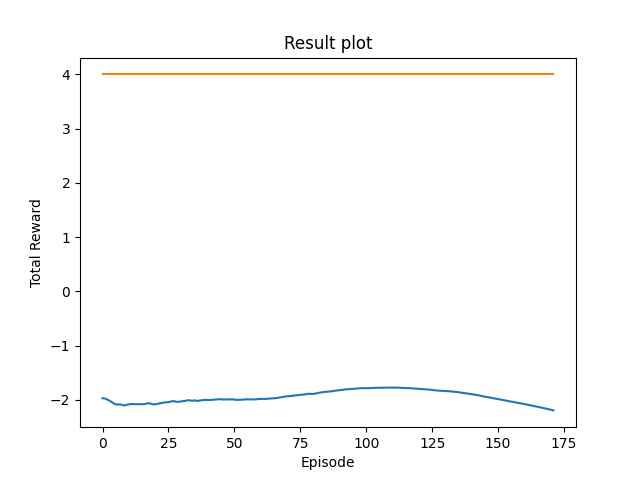
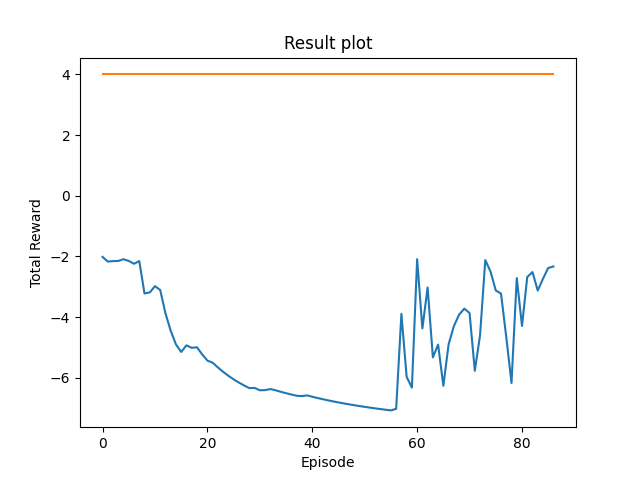
edit

diff --git a/MACC.py b/MACC.py
@@ -45,7 +45,7 @@ from rl_env.OUNoise import OUNoise
 
 # Hyperparameters
 num_episodes = 1000
-learning_rate = 0.0001
+learning_rate = 0.001 #0.0001
 gamma = 0.99
 TAU = 0.1
 batch_size = 32 #64
@@ -177,7 +177,8 @@ class Actor(nn.Module):
     def forward(self, x):
         x = F.tanh(self.fc1(x)) #relu
         x = F.tanh(self.fc2(x))
-        return F.tanh(self.fc3(x))
+        x = F.tanh(self.fc3(x))
+        return x/2
 
 
 class Critic(nn.Module):
@@ -277,20 +278,20 @@ class MACCagent:
         #buffer
         self.Qbuffer = ReplayBuffer(buffer_size)
 
+        self.highest_speed = 5000
+
 
     def action (self, in_state): #multiple actors!!
 
         output = []
 
         arr_state = divide_state(in_state)
-        i=0
 
-        for actor in (self.actor1, self.actor2, self.actor3, self.actor4):
+        for i, actor in enumerate([self.actor1, self.actor2, self.actor3, self.actor4]):
             state = torch.FloatTensor(arr_state[i])
             out = actor(state).detach().numpy()
             output.append(out)
-            i+=1
-        return np.concatenate(output)#output.flatten()
+        return np.concatenate(output)#numpy output
         
 
     """
@@ -309,39 +310,27 @@ class MACCagent:
         #make states to batch cube states
         cube = get_cube(states, batch_size)
         next_cube = get_cube(next_states, batch_size)
-        #print("test:", cube[0]) #success
 
         #now, states is cubic -> forwarding for each agent with no gradient
         #next_cube = array, thus first index represents depthwise
 
         with torch.no_grad():
 
-            i=0
-            #next_actions = []
-
-            for target_network in (self.actor1_target, self.actor2_target, self.actor3_target, self.actor4_target):
+            for i, target_network in enumerate([self.actor1_target, self.actor2_target, self.actor3_target, self.actor4_target]):
                 #torch tensor right here
                 next_action = target_network(torch.FloatTensor(next_cube[i])) #cutting state row-wise
-                #print("next_action:", next_action.size())
+                #print("next_action:", next_action)
                 if i == 0:
                     next_actions = next_action
                 else:
                     next_actions = torch.cat([next_actions, next_action], dim=1)
-                i+=1
+
             #print("next:", next_actions.size())
             
-            #next_actions = torch.cat(next_actions, dim=1)#.unsqueeze(dim=1)  -> problem occurs in critic network
-            #next_actions = torch.FloatTensor(next_actions)
-            #print("next_action:", next_action.size())
-            #next_actions = np.concatenate(next_actions, axis = 1)
-            #print("passed, next_action:", next_actions)  
-
             #now, make total state for critic 
             next_stata = flat_vectorize(next_states, batch_size) 
-            #print("next_state:", next_stata.type(), next_stata.size())
-            #next_states = torch.FloatTensor(next_states)#.unsqueeze(dim=1)
             target_q = rewards + (1 - dones) * gamma * self.critic_target(next_stata, next_actions) #next_states = length 49
-        
+            #print("target Q:", target_q)
         #print("this:", states.size(), actions.size())
         stata = flat_vectorize(states, batch_size)
         actions = torch.FloatTensor(actions)
@@ -355,22 +344,24 @@ class MACCagent:
 
         #actor trainig
         actions = []
-        j=0
-        for actor in (self.actor1_target, self.actor2_target, self.actor3_target, self.actor4_target):
+        for j, actor in enumerate ([self.actor1, self.actor2, self.actor3, self.actor4]):
             action = actor(torch.FloatTensor(cube[j])) #arr_state
             
             actions.append(action)
-            j+=1
 
         actor_actions = torch.cat(actions, dim=1)
-        #print("actions:", actor_actions.size())
         actor_loss = -self.critic(stata, actor_actions).mean()
+        #print("actor loss:", actor_loss.item())
+
 
         for optimizer in (self.actor1_optimizer, self.actor2_optimizer, self.actor3_optimizer, self.actor4_optimizer):
             optimizer.zero_grad()
         actor_loss.backward()
         for optimizer in (self.actor1_optimizer, self.actor2_optimizer, self.actor3_optimizer, self.actor4_optimizer):
-            optimizer.step()
+            try:
+                optimizer.step()
+            except:
+                pass
 
         #target update
         for param, target_param in zip(self.critic.parameters(), self.critic_target.parameters()):
@@ -468,13 +459,17 @@ def main():
                 #for num in range(num_epochs):
                 agent.train()
         
-        plot(rewards_forplot,dist_forplot, 1, 1)
+        #plot(rewards_forplot,dist_forplot, 1, 1)
 
         #if success
         if success == 1:
             num = env.return_self_action_num()
             agent.return_net(num)
             plot(rewards_forplot,dist_forplot, 1, 1)
+            rewards_forplot, dist_forplot = [], []
+
+        if episode%100 == 0:
+            rewards_forplot, dist_forplot = [], []
 
     print ("all episodes executed")
     plot(rewards_forplot,dist_forplot, 1, 1)

diff --git a/rl_env/contact_env.py b/rl_env/contact_env.py
@@ -25,7 +25,7 @@ import time
 import mujoco
 
 #hyper parameters
-max_action_num = 10000
+max_action_num = 200000
 minimum_dist = 1
 target_position = [0, 8]
 
@@ -172,6 +172,11 @@ class CONTACT_ENV():
         elif box_dist < minimum_dist:
             done_mask = 1
             success = 1
+
+        #5. max action num
+        elif self.action_num > max_action_num:
+            done_mask = 1
+            success = 0
         
         else:
             done_mask = 0
@@ -223,14 +228,14 @@ class CONTACT_ENV():
         
         #1. box reward (default values... velocity and distance)
         if old_dist > self.dist: 
-            reward = (9 - self.dist)*2
+            reward = (9 - self.dist)*3
             #reward = np.exp((10 - dist)/2) # 15
         else:
-            reward = -2
+            reward = 0
 
         #2. Ant moving condition (global)
         if self.is_moving():
-            reward += 1
+            reward += 2
         else:
             reward -= 2 #10 or 16
         
@@ -239,11 +244,17 @@ class CONTACT_ENV():
             reward += self.is_healthy()
 
         #4. inter-distance
-        reward += np.min([2-self.inter_dist, 1])
+        reward += np.min([2-self.inter_dist, 1])*2
 
         #5. contact advantage -> nope... bottom contact number always exists
         #if self.data.ncon !=0:
-        #    reward += 1        
+        #    reward += 1    
+
+        #5. qvel
+        if np.any(self.data.qvel == 0):
+            reward -= 5
+        else:
+            reward += 1
 
         #6. done case
         if done_mask and not success:
@@ -376,7 +387,7 @@ class CONTACT_ENV():
         xyz_velocity = velocity[:3]
         absolute_velocity = calc_distance(np.zeros(3), xyz_velocity)
 
-        if absolute_velocity <0.1 or np.any(self.data.qvel == 0):
+        if absolute_velocity <0.1:
             return 0
         else:
             return 1
